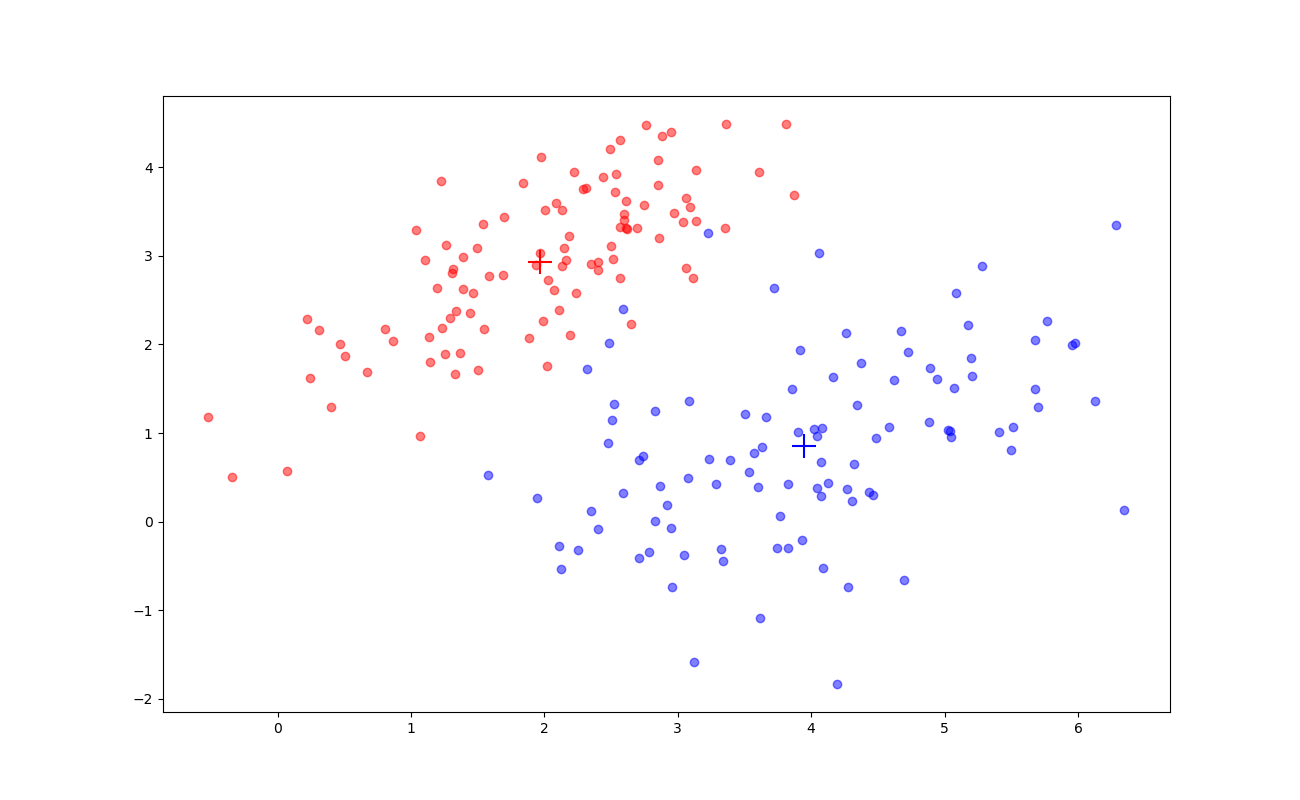
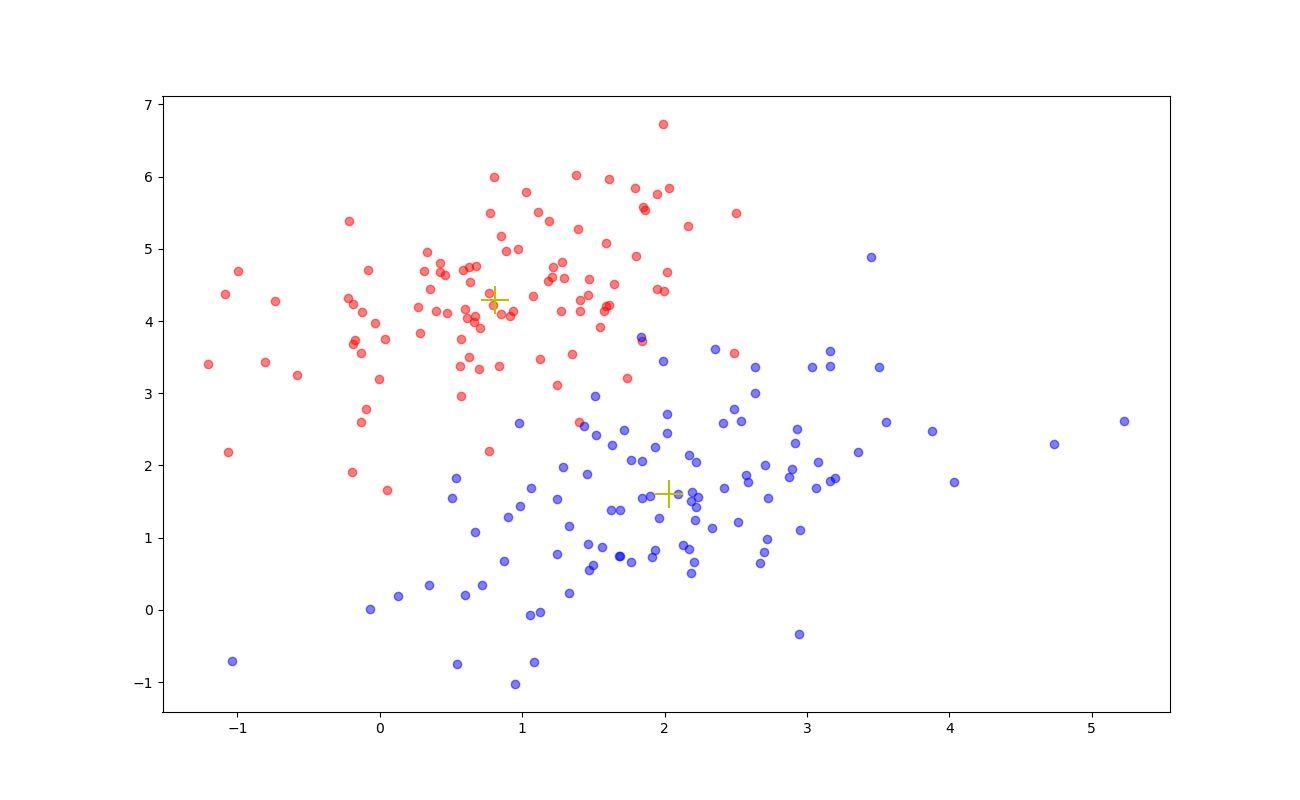
add scripts

diff --git a/pattern-recognition-and-machine-learning-book/linear-models/classification/fisher-lda.py b/pattern-recognition-and-machine-learning-book/linear-models/classification/fisher-lda.py
@@ -5,15 +5,22 @@ import numpy as np
 from numpy.random import multivariate_normal, seed
 
 
+def project(line: List[float], points: np.ndarray) -> np.ndarray:
+    a, b = tuple(line)
+    xs = (points[:,0] + a * points[:,1] - a * b) / (1 + a**2)
+    ys = a * xs + b
+    return np.array((xs, ys))
+
+
 def plot_data(X1: np.ndarray, 
             X2: np.ndarray,
             m1: np.ndarray,
             m2: np.ndarray) -> None:
-    plt.figure(figsize=(13, 8))
+    ax=plt.figure(figsize=(13, 8))
     plt.scatter(*X1.T, alpha=0.5, c='r')
     plt.scatter(*X2.T, alpha=0.5, c='b')
-    plt.scatter(*m1, marker="+", s=300, c='r')
-    plt.scatter(*m2, marker="+", s=300, c='b')
+    plt.scatter(*m1, marker="+", s=400, c='y')
+    plt.scatter(*m2, marker="+", s=400, c='y')
     plt.savefig('../../images/fisher-lda-data.png')
 
     '''
@@ -21,26 +28,45 @@ def plot_data(X1: np.ndarray,
     => w // (m_2 - m_1)
     => One choice of w: (m_2 - m_1) / ||m_2 - m_1||_2
     '''
-    w = (m2 - m1) / np.linalg.norm(m2 - m1)
-    line = np.linspace(-5, 4, 100)
-    translation = -2
-    norm_vt = w[1] / w[0]
-    projected_line = line * norm_vt + translation
+    ax = plt.axes()
+    ratio = 1.0
 
-    plt.plot(line, projected_line, linestyle='dashed', c='black')
-    plt.xlim(-4, 7)
-    plt.ylim(-4, 5)
+    x_left, x_right = ax.get_xlim()
+    y_low, y_high = ax.get_ylim()
+
+    ax.set_aspect(abs((x_right-x_left)/(y_low-y_high))*ratio)
+
+    w = (m2 - m1) / np.linalg.norm(m2 - m1)
+
+    line = np.array([[x, -4] for x in np.arange(-4, 2, step=0.01)])
+    # translation = -7
+    # slope = w[1] / w[0]
+    # projected_line = line * slope + translation
+    # w = w * slope + translation
+
+    projected_line = []
+    for x in line:
+        projected_line.append(x.dot(w) * w)
+
+    projected_line = np.array(projected_line)
+
+    # proj_X1 = project((slope, translation), X1)
+    # proj_X2 = project((slope, translation), X2)
+
+    for i in range(len(X1)):
+        proj1 = X1[i,:].dot(w) / w.dot(w) * w
+        proj2 = X2[i,:].dot(w) / w.dot(w) * w
+        plt.scatter(*proj1, c='r')
+        plt.scatter(*proj2, c='b')
+
+    # plt.plot(projected_line[:,0], projected_line[:,1], linestyle='dashed', c='black')
+    # plt.scatter(*proj_X1, alpha=0.3, c='r')
+    # plt.scatter(*proj_X2, alpha=0.3, c='b')
+
+    # plt.xlim(-4, 6)
+    # plt.ylim(-4, 8)
     plt.savefig('../../images/fisher-lda-proj-line.png')
 
-    plt.close()
-    return w
-
-  
-def plot_proj_line(X1: np.ndarray,
-                X2: np.ndarray,
-                m1: np.ndarray,
-                m2: np.ndarray) -> np.ndarray:
-    
     plt.close()
     return w
 
@@ -54,11 +80,11 @@ def plot_dist(w: np.ndarray) -> None:
 
 
 if __name__ == '__main__':
-    seed(420)
-    cov_mtx1 = np.array([[1, 0.8], [0.8, 1]])
-    cov_mtx2 = np.array([[1, 0.3], [0.3, 1]])
-    mean1 = np.array([2, 3])
-    mean2 = np.array([4, 1])
+    seed(1)
+    cov_mtx1 = np.array([[1, 0.5], [0.5, 1]])
+    cov_mtx2 = np.array([[1, 0.5], [0.5, 1]])
+    mean1 = np.array([1, 4.5])
+    mean2 = np.array([2, 1.5])
     X1 = multivariate_normal(mean1, cov_mtx1, 100)
     X2 = multivariate_normal(mean2, cov_mtx2, 100)
     m1 = X1.mean(axis=0)

diff --git a/pattern-recognition-and-machine-learning-book/linear-models/classification/gda.py b/pattern-recognition-and-machine-learning-book/linear-models/classification/gda.py
@@ -1,0 +1,64 @@
+import numpy as np
+import matplotlib.pyplot as plt
+from numpy.random import multivariate_normal, seed
+
+seed(3)
+
+def softmax(a, k):
+    return np.exp(a[k]) / np.sum(np.exp(a))
+
+
+def ak(x, w_k, w_k0):
+    return w_k.T.dot(x) + w_k0
+
+
+def posterior(x, w, w0):
+    a = []
+    for k in range(len(w)):
+        a_k = ak(x, w[k], w0[k])
+        a.append(a_k)
+    a = np.array(a)
+
+    pCx = []
+    for k in range(len(w)):
+        pCkx = softmax(a, k)
+        pCx.append(pCkx)
+
+    k = np.argmax(np.array(pCx))
+    return k
+
+
+cov = np.array([[1, 0.6], [0.6, 1]])
+cov_inv = np.linalg.inv(cov)
+mus = np.array([[-1, -1], [-3, 2], [4, 3]])
+colors = ['red', 'green', 'blue']
+markers = ['o', '+', 'x']
+N = [500, 500, 500]
+X, w, w0 = [], [], []
+
+plt.figure(figsize=(8, 8))
+for mu_k, N_k in zip(mus, N):
+    X_k = multivariate_normal(mu_k, cov, N_k)
+    pC_k = N_k / np.sum(np.asarray(N))
+    w_k = cov_inv.dot(mu_k)
+    w_k0 = -0.5 * mu_k.T.dot(cov_inv).dot(mu_k) + np.log(pC_k)
+    X.append(X_k)
+    w.append(w_k)
+    w0.append(w_k0)
+
+X = np.array(X)
+correct = 0
+for k in range(X.shape[0]):
+    for n in range(X.shape[1]):
+        x = X[k, n]
+        k_pred = posterior(x, w, w0)
+        plt.scatter(x[0], x[1], c=colors[k_pred], 
+            alpha=0.5, marker=markers[k])
+        if k_pred == k:
+            correct += 1
+
+print('Accuracy:', correct / np.sum(np.array(N)))
+plt.savefig('../../images/gda.png')
+plt.close()
+
+

diff --git a/pattern-recognition-and-machine-learning-book/linear-models/regression/linear-regression-basis-funcs.py b/pattern-recognition-and-machine-learning-book/linear-models/regression/linear-regression-basis-funcs.py
@@ -1,0 +1,64 @@
+import numpy as np
+import matplotlib.pyplot as plt
+
+
+def f(x):
+    return np.sin(x / 2) + 2 * np.cos(x)
+
+
+def polynomial_basis(x: float, order: int) -> float:
+    return np.power(x, order)
+
+
+N = 10
+M = 12
+data = np.linspace(0, 20, N)
+
+Phi, t = [], []
+
+for x in data:
+    target = f(x)
+    t.append(target)
+    phi_xn = []
+
+    for i in range(M):
+        phi_i = polynomial_basis(x, i)
+        phi_xn.append(phi_i)
+
+    Phi.append(phi_xn)
+
+Phi = np.array(Phi)
+t = np.array(t)
+w = np.linalg.inv(Phi.T.dot(Phi)).dot(Phi.T).dot(t)
+beta = N / np.sum(np.power(t - w.T.dot(Phi.T), 2))
+
+line_pred = []
+line = []
+X = np.arange(0, 20, 0.1)
+error = np.random.normal(0, np.sqrt(1 / beta))
+
+
+for x in X:
+    phi = []
+    for i in range(M):
+        phi_i = polynomial_basis(x, i)
+        phi.append(phi_i)
+    y_pred = w.dot(np.array(phi)) + error
+    y = f(x)
+    line_pred.append(y_pred)
+    line.append(y)
+
+line_pred = np.array(line_pred)
+line = np.array(line)
+
+rmse = np.sqrt(np.mean(np.power(line - line_pred, 2)))
+print('RMSE:', rmse)
+
+plt.figure(figsize=(8, 8))
+plt.plot(X, line_pred, c='blue')
+plt.plot(X, line, c='red')
+
+plt.savefig('../../images/lin-reg-basis-funcs.png')
+plt.close()
+
+

diff --git a/pattern-recognition-and-machine-learning-book/linear-models/regression/newtons-method.py b/pattern-recognition-and-machine-learning-book/linear-models/regression/newtons-method.py
@@ -1,0 +1,41 @@
+import numpy as np
+import matplotlib.pyplot as plt
+
+
+def f(x: float) -> float:
+    return (x - 1) ** 2 - 1
+
+
+def f_prime(x: float) -> float:
+    return 2 * x
+
+
+def newton_method(x: float, order: int) -> None:
+    for n in range(1, order + 1):
+        fx = f(x)
+        plt.scatter(x, fx, c='black')
+        ax.annotate(f'(x{n}, f(x{n}))', (x - 0.9, fx + 0.5))
+        plt.plot([x, x], [0, fx], c='black', linestyle='dashed')
+        x_new = x - fx / f_prime(x)
+        plt.plot([x_new, x], [0, fx], c='black')
+        x = x_new
+        plt.scatter(x, 0, c='black')
+        ax.annotate(f'x{n+1}', (x, 0), (x, -1))
+
+x = np.arange(0, 6, 0.01)
+fx = f(x)
+x1 = 4.5
+fx1 = f(x1)
+x2 = x1 - fx1 / f_prime(x1)
+fx2 = f(x2)
+
+fig, ax = plt.subplots()
+plt.plot(x, np.zeros(x.shape), c='black')
+plt.plot(x, fx, c='red')
+plt.scatter(x1, 0, c='black')
+ax.annotate(f'x1', (x1, 0), (x1, -1))
+newton_method(x1, 3)
+
+plt.xlim(0, 6)
+plt.savefig('../../images/newtons-method.png')
+plt.close()
